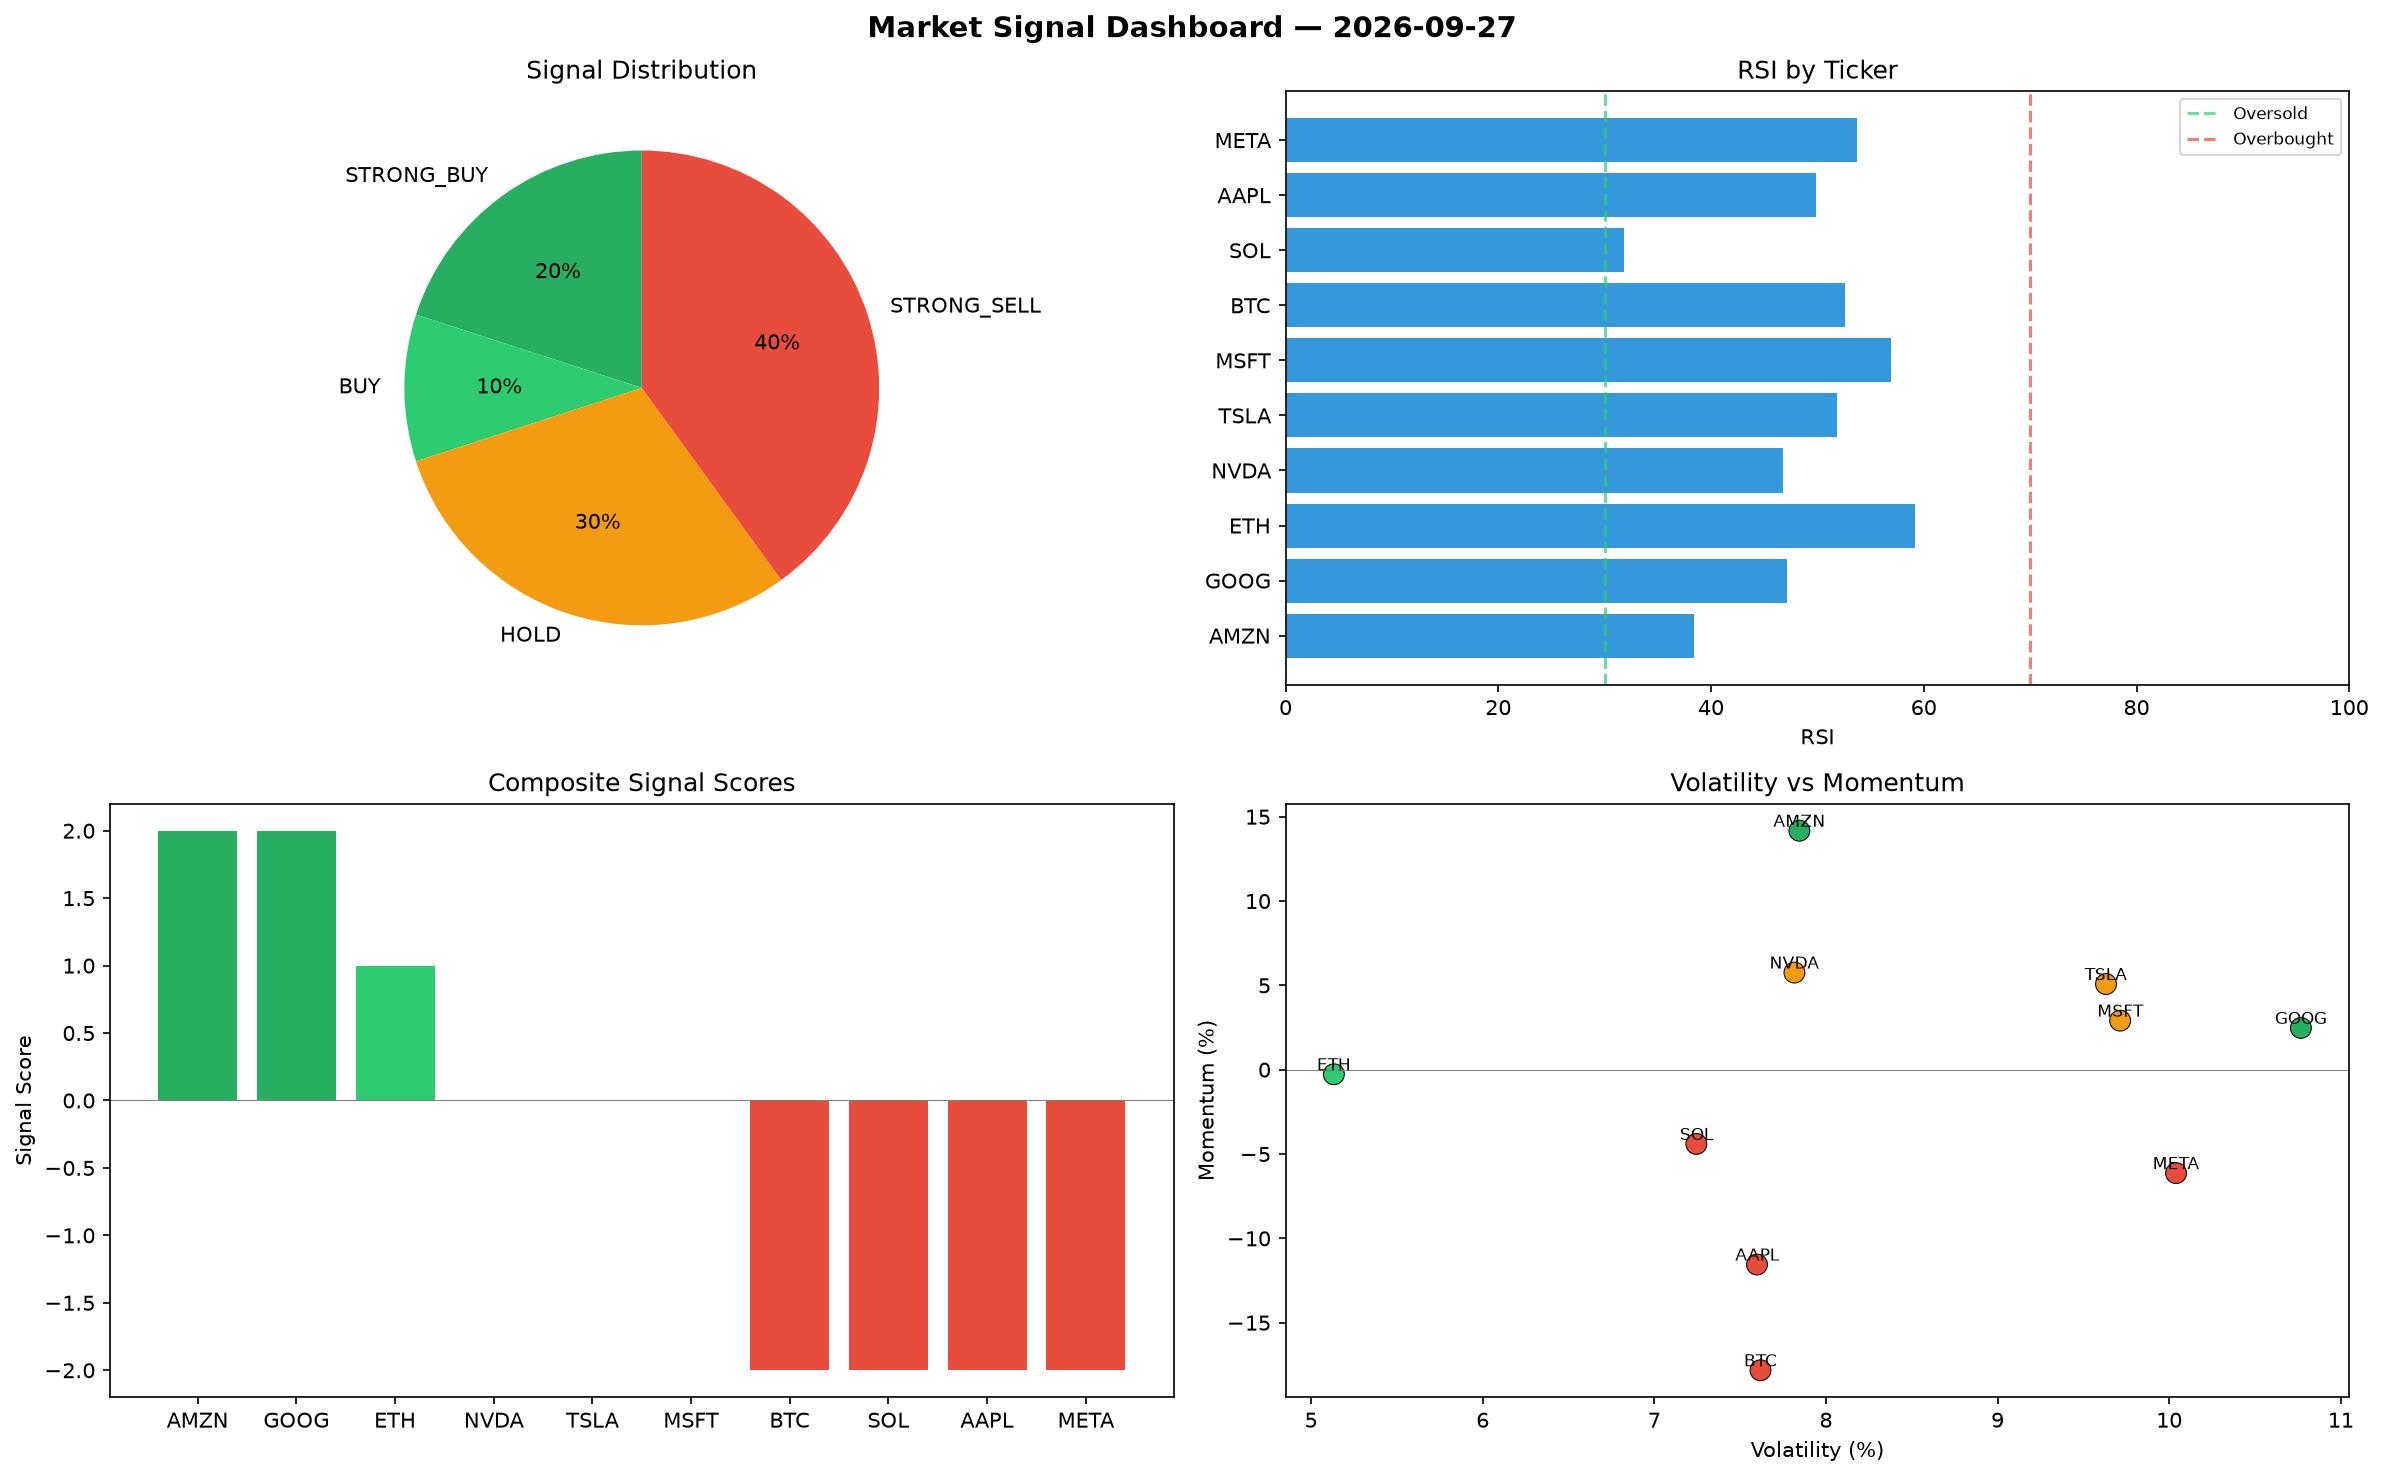
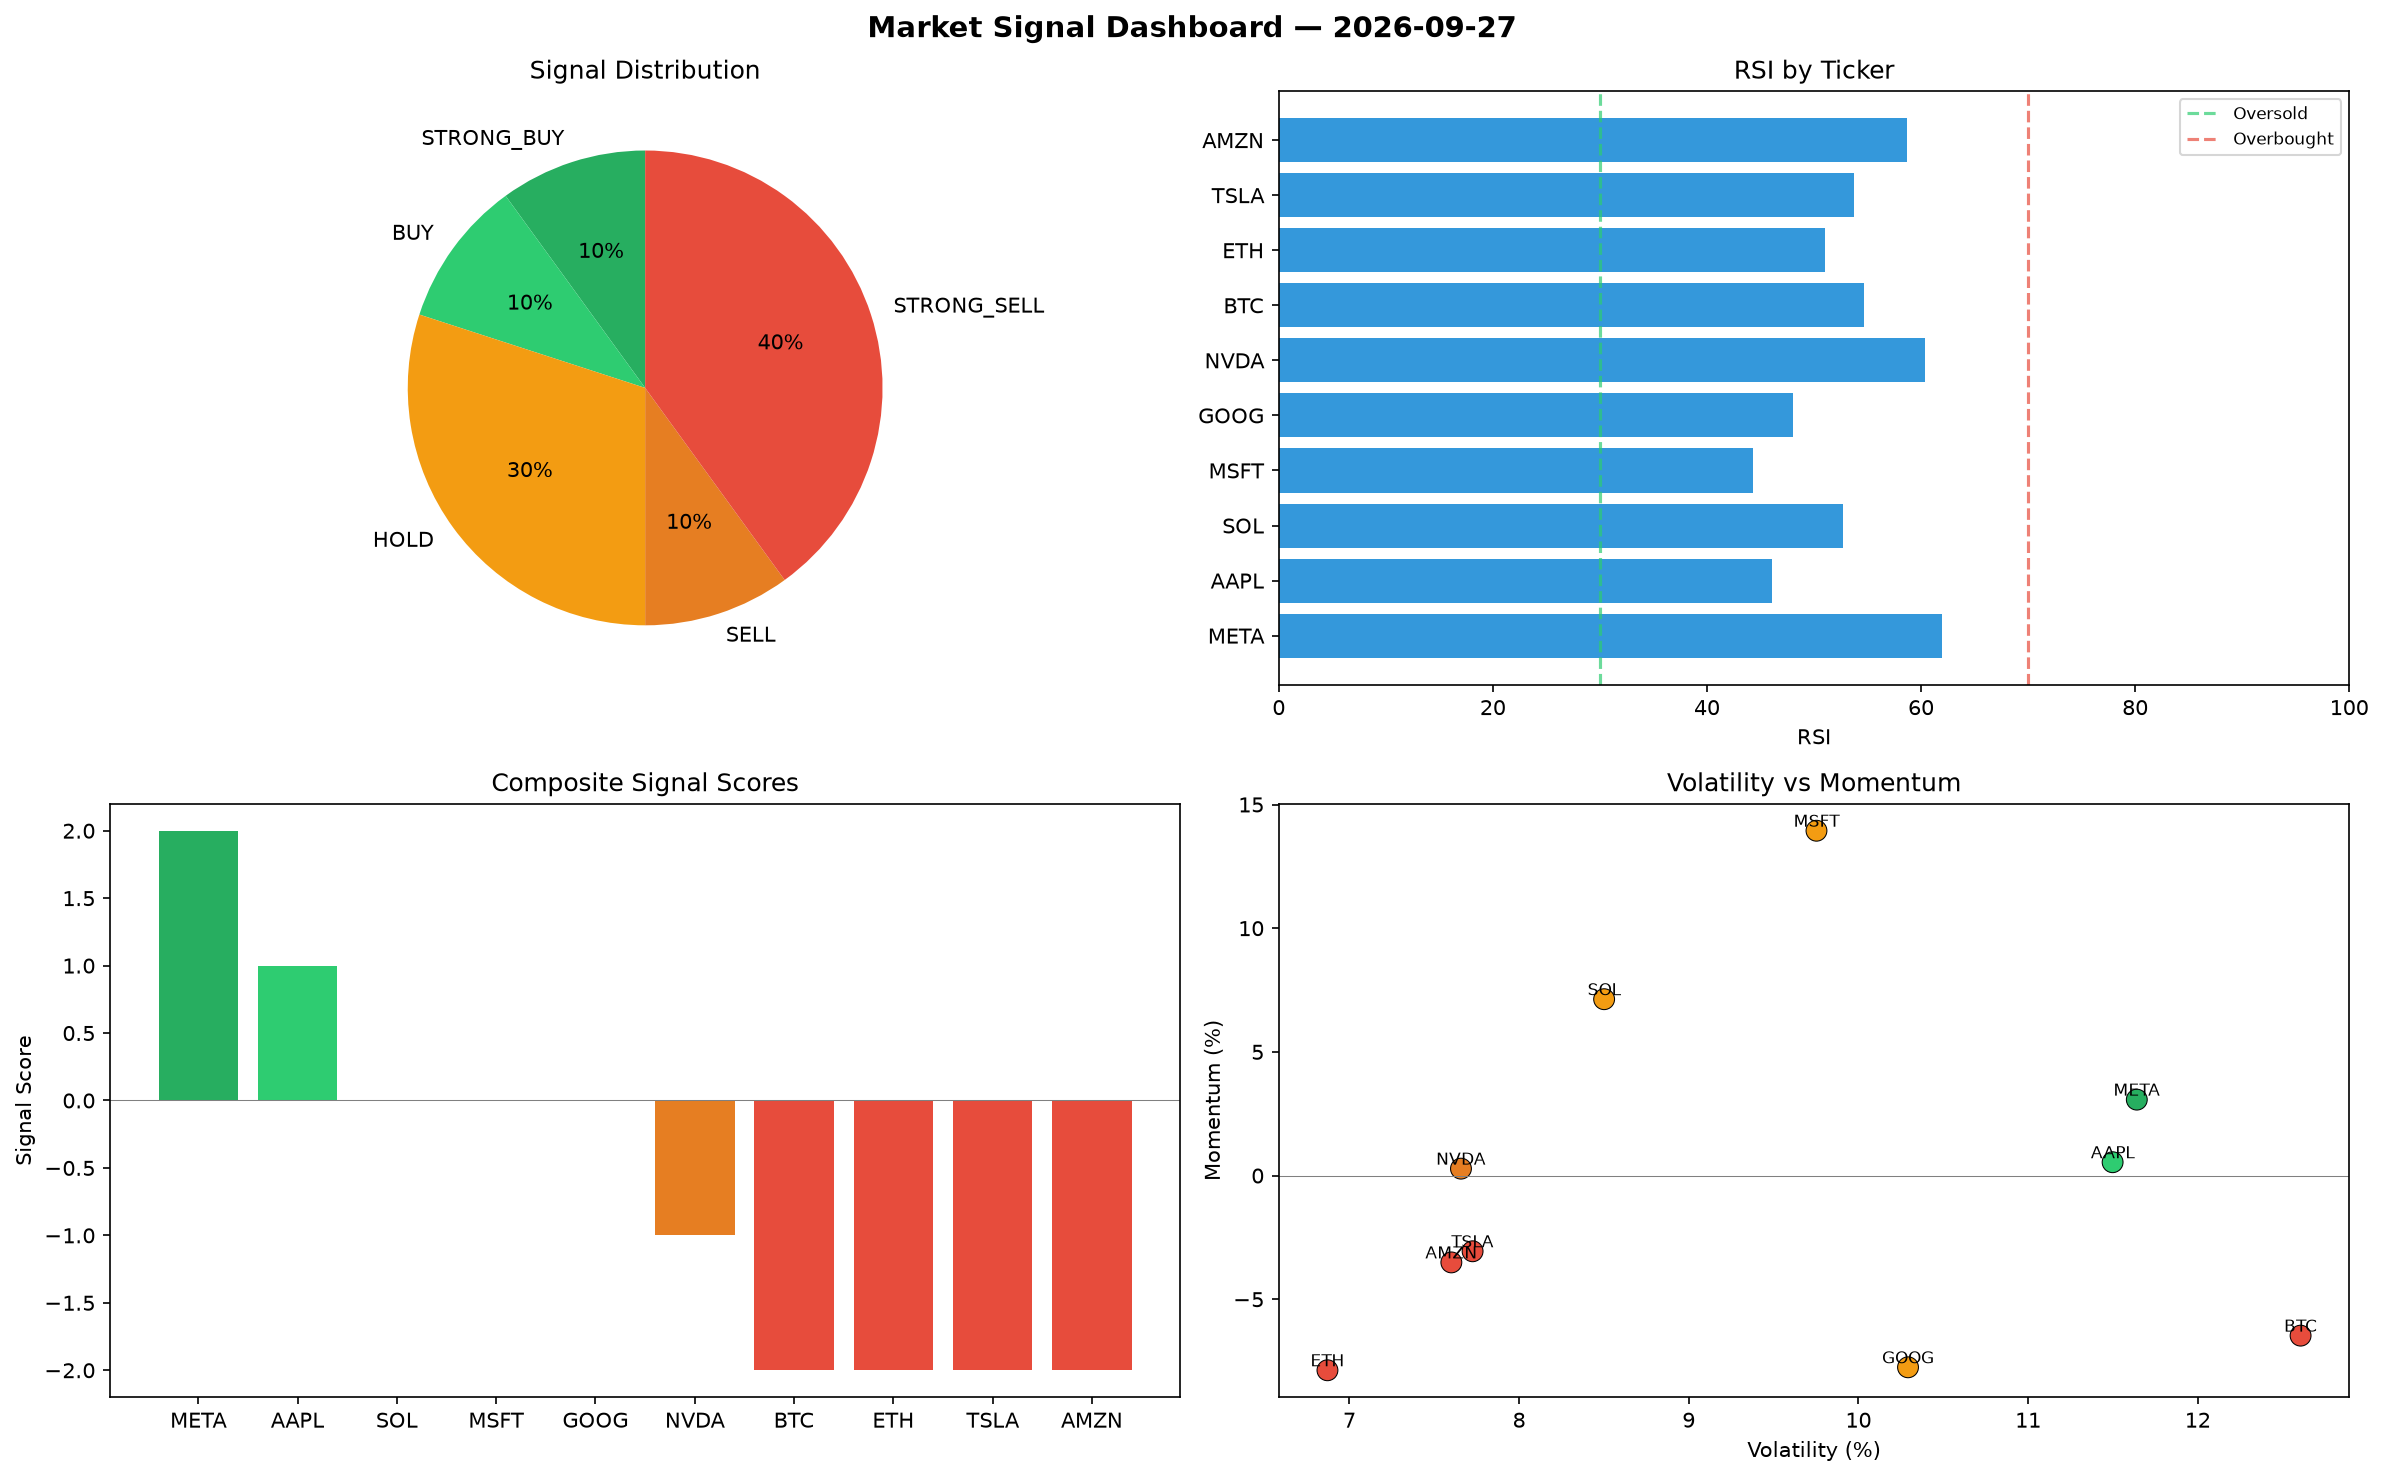
automated-bots: market signals 2026-09-27T14:09

diff --git a/logs/2026-09-27.md b/logs/2026-09-27.md
@@ -1,6 +1,6 @@
 # Market Signal Report — 2026-09-27
 
-**Run ID:** `1aa12e079e` | **Buy:** 3 | **Sell:** 4 | **Hold:** 3
+**Run ID:** `ccc44e5aad` | **Buy:** 2 | **Sell:** 5 | **Hold:** 3
 
 ![Dashboard](2026-09-27_dashboard.png)
 
@@ -8,28 +8,28 @@
 
 | Ticker | Price | Signal | Score | RSI | Momentum | Confidence |
 |--------|-------|--------|-------|-----|----------|------------|
-| AMZN | $3330.65 | **STRONG_BUY** | 2 | 38.41 | 0.1417 | 0.5 |
-| GOOG | $4361.81 | **STRONG_BUY** | 2 | 47.1 | 0.0248 | 0.5 |
-| ETH | $1029.89 | **BUY** | 1 | 59.19 | -0.0027 | 0.25 |
-| NVDA | $2031.26 | **HOLD** | 0 | 46.8 | 0.0576 | 0.0 |
-| TSLA | $4379.31 | **HOLD** | 0 | 51.87 | 0.0508 | 0.0 |
-| MSFT | $4385.99 | **HOLD** | 0 | 56.94 | 0.0291 | 0.0 |
-| BTC | $1514.21 | **STRONG_SELL** | -2 | 52.55 | -0.1782 | 0.5 |
-| SOL | $1251.33 | **STRONG_SELL** | -2 | 31.85 | -0.044 | 0.5 |
-| AAPL | $3728.34 | **STRONG_SELL** | -2 | 49.86 | -0.1155 | 0.5 |
-| META | $1554.13 | **STRONG_SELL** | -2 | 53.68 | -0.0613 | 0.5 |
+| META | $1148.69 | **STRONG_BUY** | 2 | 61.96 | 0.0307 | 0.5 |
+| AAPL | $1624.1 | **BUY** | 1 | 46.12 | 0.0054 | 0.25 |
+| SOL | $4409.68 | **HOLD** | 0 | 52.72 | 0.0713 | 0.0 |
+| MSFT | $1584.88 | **HOLD** | 0 | 44.31 | 0.1394 | 0.0 |
+| GOOG | $1463.66 | **HOLD** | 0 | 48.01 | -0.0775 | 0.0 |
+| NVDA | $965.38 | **SELL** | -1 | 60.38 | 0.0028 | 0.25 |
+| BTC | $1287.65 | **STRONG_SELL** | -2 | 54.69 | -0.0647 | 0.5 |
+| ETH | $2692.35 | **STRONG_SELL** | -2 | 51.04 | -0.0787 | 0.5 |
+| TSLA | $766.86 | **STRONG_SELL** | -2 | 53.7 | -0.0306 | 0.5 |
+| AMZN | $2635.15 | **STRONG_SELL** | -2 | 58.72 | -0.0351 | 0.5 |
 
 ## Delta vs Yesterday
 
 | Ticker | Today | Yesterday | Price Change | Signal Changed |
 |--------|-------|-----------|-------------|----------------|
-| AMZN | STRONG_BUY | STRONG_SELL | 📈 90.54% | ⚠ YES |
-| GOOG | STRONG_BUY | HOLD | 📉 -10.47% | ⚠ YES |
-| ETH | BUY | STRONG_SELL | 📉 -69.75% | ⚠ YES |
-| NVDA | HOLD | STRONG_BUY | 📈 90.61% | ⚠ YES |
-| TSLA | HOLD | BUY | 📈 703.75% | ⚠ YES |
-| MSFT | HOLD | STRONG_BUY | 📈 118.17% | ⚠ YES |
-| BTC | STRONG_SELL | HOLD | 📈 42.5% | ⚠ YES |
-| SOL | STRONG_SELL | HOLD | 📈 35.97% | ⚠ YES |
-| AAPL | STRONG_SELL | SELL | 📈 223.02% | ⚠ YES |
-| META | STRONG_SELL | STRONG_SELL | 📉 -1.33% | — |
+| META | STRONG_BUY | STRONG_SELL | 📉 -27.07% | ⚠ YES |
+| AAPL | BUY | SELL | 📈 40.71% | ⚠ YES |
+| SOL | HOLD | HOLD | 📈 379.16% | — |
+| MSFT | HOLD | STRONG_BUY | 📉 -21.16% | ⚠ YES |
+| GOOG | HOLD | HOLD | 📉 -69.96% | — |
+| NVDA | SELL | STRONG_BUY | 📉 -9.41% | ⚠ YES |
+| BTC | STRONG_SELL | HOLD | 📈 21.18% | ⚠ YES |
+| ETH | STRONG_SELL | STRONG_SELL | 📉 -20.92% | — |
+| TSLA | STRONG_SELL | BUY | 📈 40.74% | ⚠ YES |
+| AMZN | STRONG_SELL | STRONG_SELL | 📈 50.75% | — |
